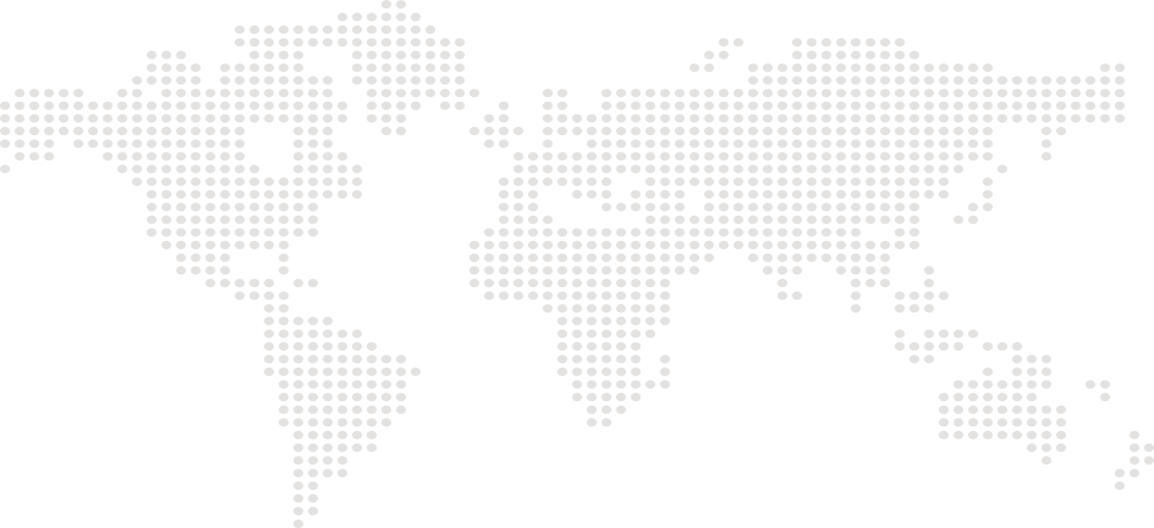
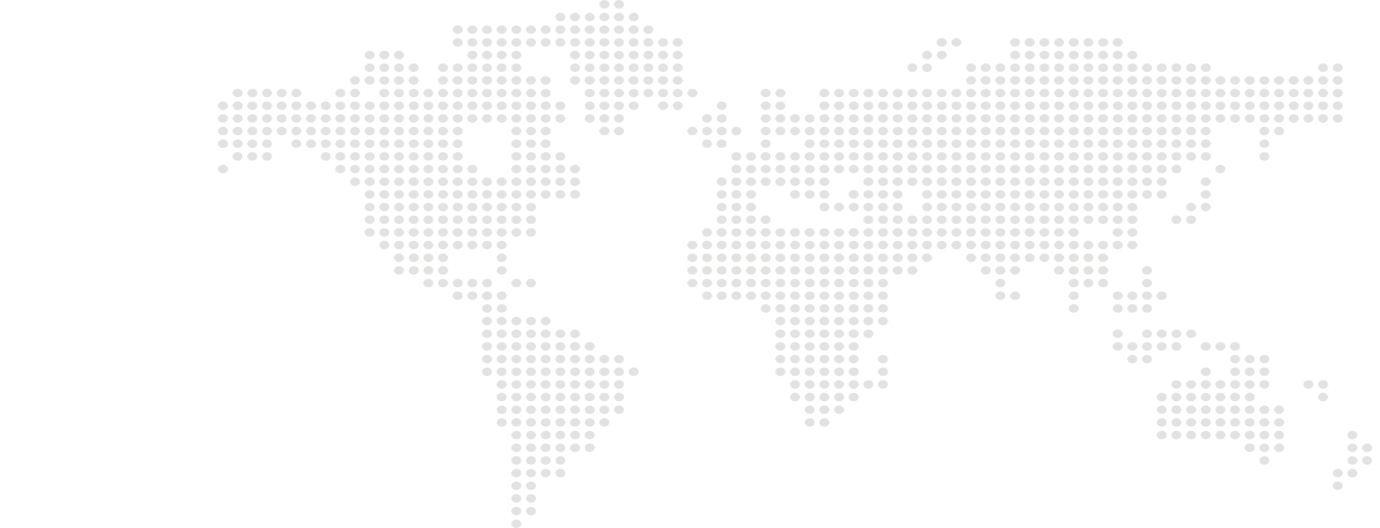
Several fixes 2 - WIP

diff --git a/style/custom.css b/style/custom.css
@@ -203,6 +203,7 @@ header .container {
     height: 100%;
     position: absolute;
     z-index: 5;
+    transition: 1s;
 } /* -- Adding img of the man without bg as header:after element */
 
 .section-1:after {
@@ -267,13 +268,13 @@ header .container {
 
 .inside-box h3 {
     font-size: 18px;
-    margin: 20px 60px 0 0;
+    margin: 20px 60px 25px 0;
 }
 
 .order-button button {
-    margin-top: 25px;
     min-width: 260px;
     min-height: 60px;
+    transition: 1s;
 }
 
 
@@ -288,9 +289,10 @@ header .container {
 /* Section #2 // Part 1: bg and container */
 
 .section-2 {
-    background-color: #f6f4f4;
+    background: #f6f4f4 url('../img/section-2/world-bg.png') center 25px no-repeat;
     position: relative;
     z-index: 10;
+    transition: 1s;
 }
 
 .section-2 h3 {
@@ -305,7 +307,6 @@ header .container {
     display: flex;
     justify-content: center;
     align-items: center;
-    background: url('../img/section-2/world-bg.png') 110px 25px no-repeat;
 }
 
 /* Section #2 // Part 2: text-and-button */
@@ -814,7 +815,7 @@ header .container {
     }
 
     .header-nav ul li a {
-        line-height: 12.6vh;
+        line-height: 12vh;
         color: rgba(255, 255, 255, 0.8);
         font-size: 15px;
         text-transform: uppercase;
@@ -940,6 +941,7 @@ header .container {
 
 
         /* Section #1: The white-border box on the main image */ 
+
 @media all and (min-width: 1800px) {
     .section-1:after {
         filter: brightness(1.1);
@@ -972,28 +974,51 @@ header .container {
     }
 }
 @media all and (max-width: 530px) {
+    .section-1 .container {
+        min-height: 750px;
+    }
+    .line-under-man {
+        margin-top: 40px;
+    }
+    .inside-box {
+        width: 90%;
+        padding: 20px;
+        min-width: 250px;
+    }
+    .inside-box h1 {
+        max-width: 300px;
+    }
+    .inside-box h3 {
+        max-width: 160px;
+        margin-right: 0;
+    }
+    .order-button {
+        align-self: center;
+        width: 260px;
+    }
     .section-1:after {
-        background-position: -870px top;
+        background-position: -870px bottom;
+        bottom: -60px;
     }
 }
 @media all and (max-width: 490px) {
     .section-1:after {
-        background-position: -900px top;
+        background-position: -900px bottom;
     }
 }
 @media all and (max-width: 450px) {
     .section-1:after {
-        background-position: -940px top;
+        background-position: -940px bottom;
     }
 }
 @media all and (max-width: 400px) {
     .section-1:after {
-        background-position: -980px top;
+        background-position: -980px bottom;
     }
 }
 @media all and (max-width: 350px) {
     .section-1:after {
-        background-position: -1030px top;
+        background-position: -1030px bottom;
     }
     .inside-box {
         padding: 35px 0px 35px 20px;
@@ -1032,10 +1057,17 @@ header .container {
 
         /* Section #2: About us */ 
     
-@media all and (max-width: 1600px) {
-    .section-2 .container {
-        background-position: 115px 25px;
+@media all and (max-width: 1570px) {
+    .about-us_large-img {
+        width: 700px;
+        height: 495px;
+        top: -125px;
     }
+    .about-us_small-img {
+        top: 195px;
+    }
+}
+@media all and (max-width: 1400px) {
     .about-us_large-img {
         width: 624px;
         height: 442px;
@@ -1045,12 +1077,12 @@ header .container {
         top: 165px;
     }
 }
-@media all and (max-width: 1350px) {
+@media all and (max-width: 1250px) {
     .about-us_imgs {
         width: 400px;
     }
     .about-us_text {
-        width: 280px;
+        width: 390px;
         margin-right: 25px;
     }
     .about-us_large-img {
@@ -1064,7 +1096,17 @@ header .container {
         left: 75px;
     }
 }
-@media all and (max-width: 800px) {
+@media all and (max-width: 1050px) {
+    .about-us_text {
+        width: 300px;
+    }
+}
+@media all and (max-width: 950px) {
+    .about-us_text {
+        width: 200px;
+    }
+}
+@media all and (max-width: 850px) {
     .section-2 .container {
         flex-direction: column-reverse;
         position: relative;
@@ -1080,23 +1122,43 @@ header .container {
         top: 330px;
         z-index: 10;
     }
+    .about-us_text h2 {
+        max-width: 120px;
+        background-color: rgba(246, 244, 244, 0.95);
+        padding: 0 5px;
+    }
     .about-us_text h3 {
         width: 255px;
-        color: rgb(238, 238, 238);
+        background-color: rgba(246, 244, 244, 0.95);
+        padding: 0 5px;
     }
     .about-us_large-img {
-        width: 500px;
-        height: 354px;
+        width: 550px;
+        height: 396px;
         top: -180px;
         left: 50%;
         transform: translate(-50%, 0);
     }
     .about-us_small-img {
+        top: 140px;
         left: 50%;
         transform: translate(-50%, 0);
     }
 }
+@media all and (max-width: 590px) {
+    .about-us_large-img {
+        width: 500px;
+        height: 354px;
+    }
+    .about-us_small-img {
+        top: 120px;
+    }
+}    
 @media all and (max-width: 530px) {
+    .section-2 {
+        background-color: #f6f4f4;
+        background-image: none;
+    }
     .section-2 .container {
         min-height: 610px;
     }
@@ -1201,7 +1263,7 @@ header .container {
     }
 }
 
-@media all and (max-width: 820px) {
+@media all and (max-width: 720px) {
     .journal_tiles_item {
         width: 100%;
     }
@@ -1238,6 +1300,18 @@ header .container {
 @media all and (max-width: 400px) {
     .journal_tiles {
         width: 100%;
+    }
+    .journal_tiles_item {
+        min-height: 300px;
+    }
+    .journal_tiles_item_text {
+        padding: 40px 20px;
+    }
+    .journal_tiles_item_text h2 {
+        padding: 20px 0 20px 0;
+    }
+    .journal_tiles_item_text p {
+        padding: 0 20px;
     }
 }
 
@@ -1315,6 +1389,9 @@ header .container {
     }
     .wework_item-2 {
         margin-top: 50px;
+    }
+    .wework_item-3 {
+        margin-bottom: 0px;
     }
     .wework_item-4 {
         margin-bottom: 50px;
